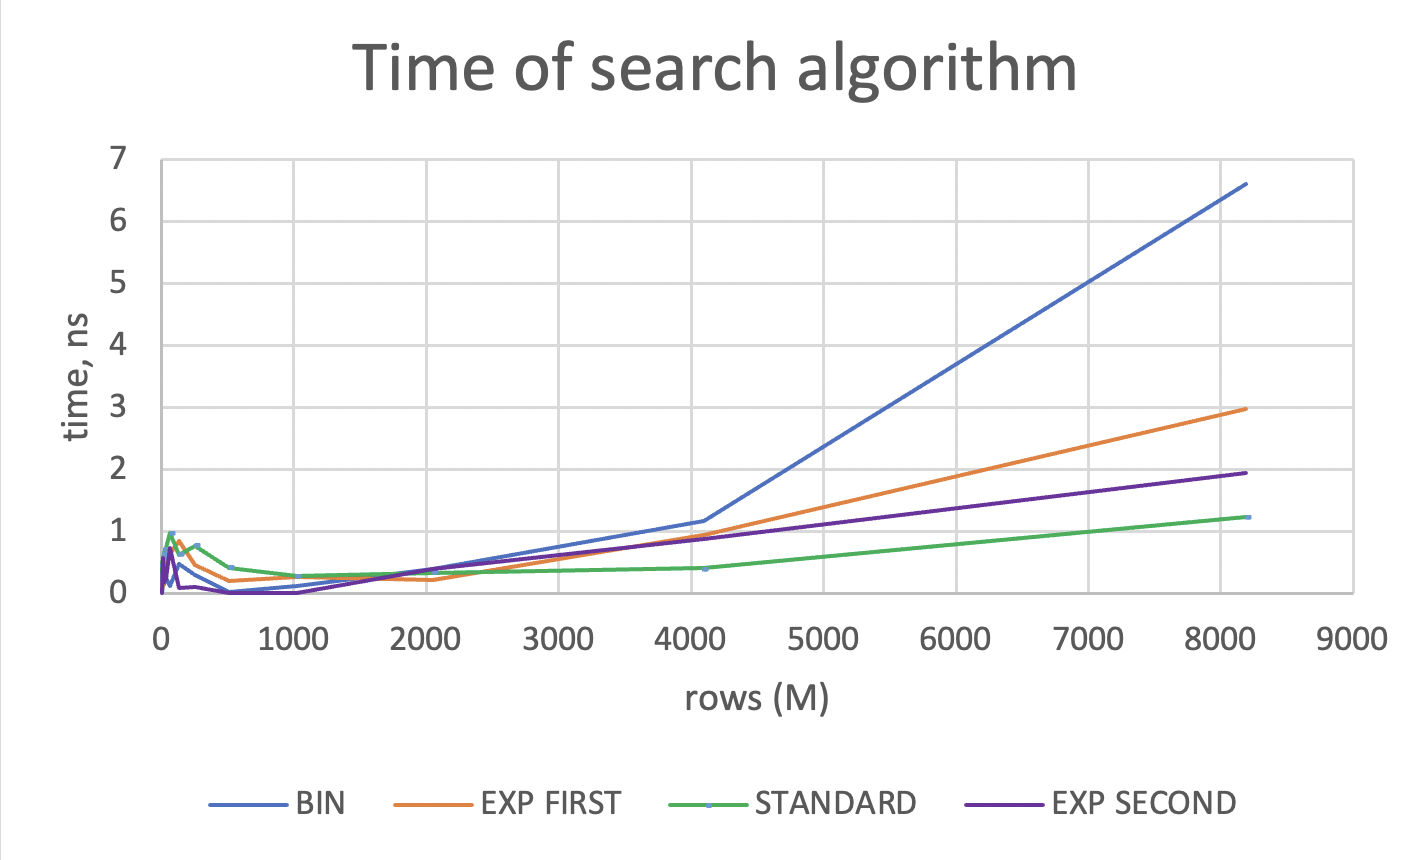
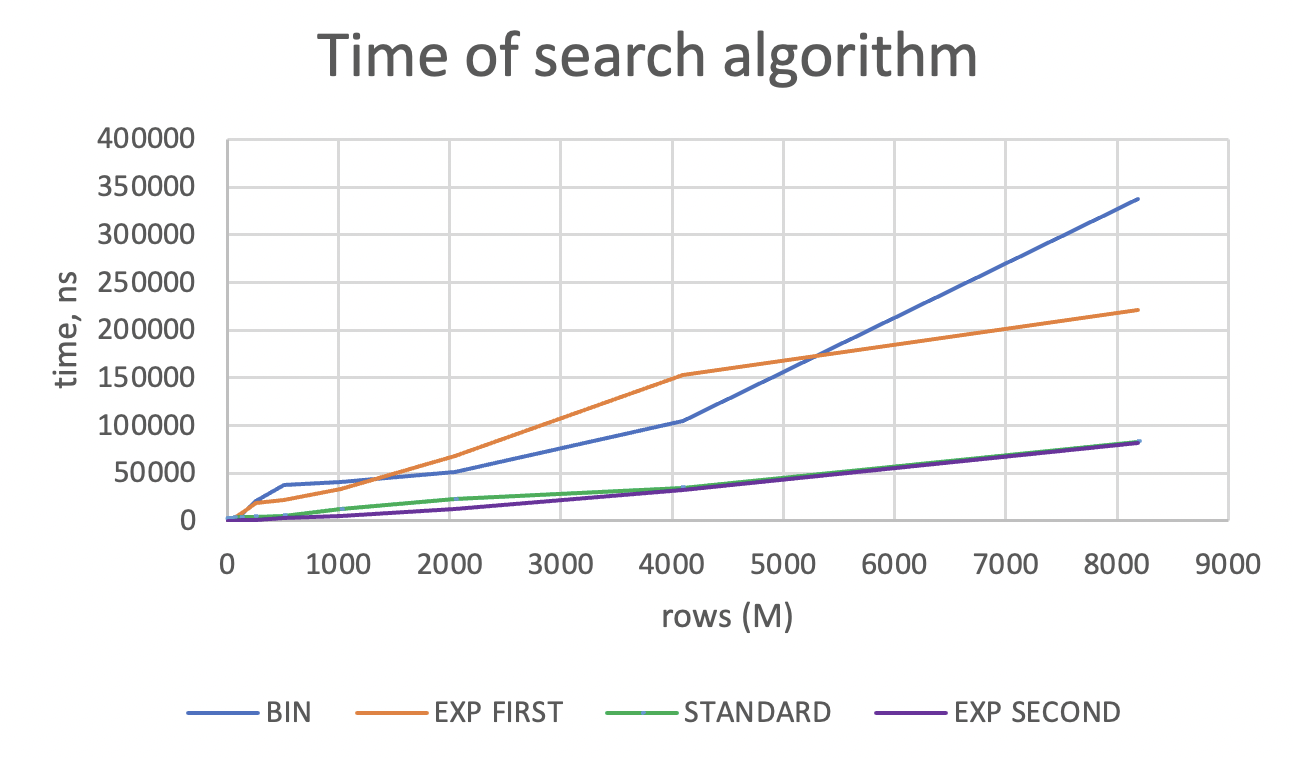
Now the tests are run 100 times and the average values are taken, this helped to correct errors in the indicators of the graphs.

diff --git a/src/main/java/com/example/lab1_pestrikv/Main.java b/src/main/java/com/example/lab1_pestrikv/Main.java
@@ -1,5 +1,8 @@
 package com.example.lab1_pestrikv;
 
+import java.util.Arrays;
+import java.util.OptionalDouble;
+
 import static com.example.lab1_pestrikv.algorithms.binaryImplementation.binarySearch;
 import static com.example.lab1_pestrikv.algorithms.exponentialImplementation.exponentialSearch;
 import static com.example.lab1_pestrikv.generatedMatrixes.firstMatrixGeneration;
@@ -8,36 +11,56 @@ import static com.example.lab1_pestrikv.algorithms.linearImplementation.linearSe
 
 public class Main {
     public static void main(String[] args) {
-        int rows = (int) Math.pow(2, 1), columns = (int) Math.pow(2, 13); //input rows value
+        int rows = (int) Math.pow(2, 1); //input rows value
         int firstGenerationTarget = 2 * rows + 1;
         int secondGenerationTarget = 16 * rows + 1;
-        int[][] firstMatrix = firstMatrixGeneration(rows, columns);
-        int[][] secondMatrix = secondMatrixGeneration(rows, columns);
-        scoring(firstMatrix, secondMatrix, firstGenerationTarget, secondGenerationTarget);
+        for (int i = 1; i <= 13; i++) {
+            scoring(rows, (int) Math.pow(2, i), firstGenerationTarget, secondGenerationTarget);
+        }
+        for (int i = 1; i <= 13; i++) {
+            scoring(rows, (int) Math.pow(2, i), firstGenerationTarget, secondGenerationTarget);
+        } //we need to take last 13 results in console, it is solves java in-time compilation problem
     }
 
-    public static void scoring(int[][] firstMatrix, int[][] secondMatrix,
+    public static void scoring(int rows, int columns,
                                int firstGenerationTarget, int secondGenerationTarget) {
-        long startBin = System.nanoTime();
-        int binValue = binarySearch(firstMatrix, firstGenerationTarget);
-        long endBin = System.nanoTime();
-        long startExp = System.nanoTime();
-        int expValue = exponentialSearch(firstMatrix, firstGenerationTarget, 2);
-        long endExp = System.nanoTime();
-        long startLinear = System.nanoTime();
-        int linearValue = linearSearch(firstMatrix, firstGenerationTarget);
-        long endLinear = System.nanoTime();
-        long startSecondExp = System.nanoTime();
-        int secondExpVariationValue = exponentialSearch(secondMatrix, secondGenerationTarget, 2);
-        long endSecondExp = System.nanoTime();
-        float resultExp = endExp - startExp;
-        float resultLinear = endLinear - startLinear;
-        float resultBin = endBin - startBin;
-        float resultSecondExp = endSecondExp - startSecondExp;
-        System.out.println("b" + resultBin / 1000000 + "ns "
-                + "exp" + resultExp / 1000000 + "ns "
-                + "standard" + resultLinear / 1000000 + "ns "
-                + "second exp " + resultSecondExp / 1000000 + "ns");
+        long[] binaryResults = new long[100];
+        long[] expResults = new long[100];
+        long[] linearResults = new long[100];
+        long[] secondExpResults = new long[100];
+        for (int i = 0; i < 100; i++) {
+            long start;
+            long end;
+            int[][] firstMatrix = firstMatrixGeneration(rows, columns);
+            int[][] secondMatrix = secondMatrixGeneration(rows, columns);
+            start = System.nanoTime();
+            int binValue = binarySearch(firstMatrix, firstGenerationTarget);
+            end = System.nanoTime();
+            binaryResults[i] = end - start;
+
+            start = System.nanoTime();
+            int expValue = exponentialSearch(firstMatrix, firstGenerationTarget, 2);
+            end = System.nanoTime();
+            expResults[i] = end - start;
+
+            start = System.nanoTime();
+            int linearValue = linearSearch(firstMatrix, firstGenerationTarget);
+            end = System.nanoTime();
+            linearResults[i] = end - start;
+
+            start = System.nanoTime();
+            int secondExpVariationValue = exponentialSearch(secondMatrix, secondGenerationTarget, 2);
+            end = System.nanoTime();
+            secondExpResults[i] = end - start;
+        }
+        OptionalDouble binAvg = Arrays.stream(binaryResults).average();
+        OptionalDouble expAvg = Arrays.stream(expResults).average();
+        OptionalDouble linAvg = Arrays.stream(linearResults).average();
+        OptionalDouble secondExpAvg = Arrays.stream(secondExpResults).average();
+        System.out.println("bin " + binAvg + "ns "
+                + "exp " + expAvg + "ns "
+                + "standard " + linAvg + "ns "
+                + "second exp " + secondExpAvg + "ns");
     }
-}
+    }
 
